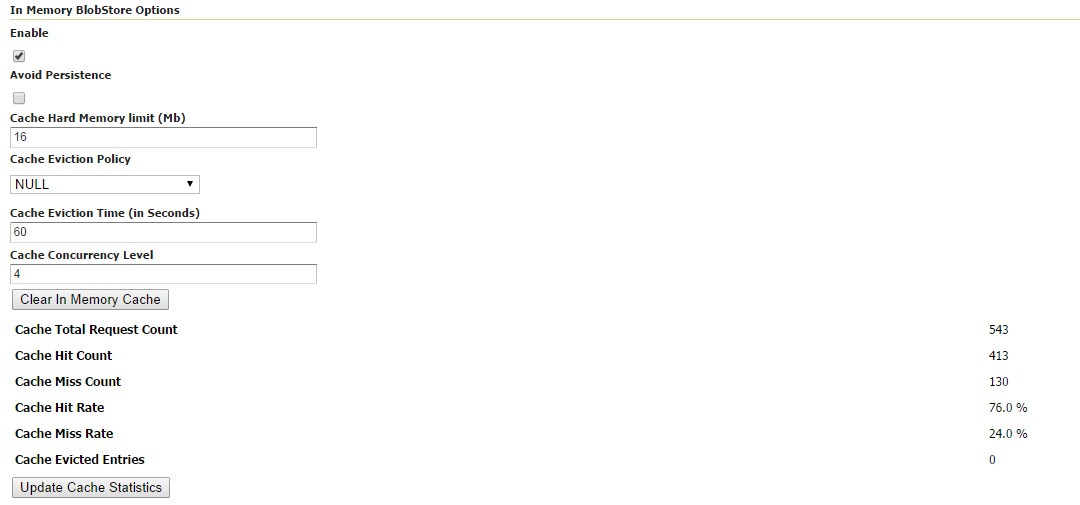
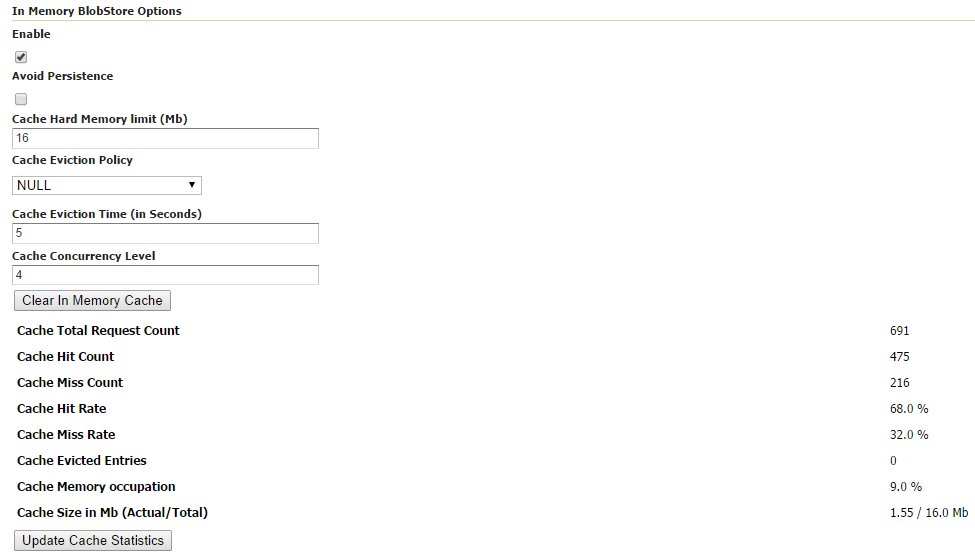
Added logging and minor fixes on eviction and cache size

diff --git a/src/web/gwc/src/main/java/org/geoserver/gwc/web/BlobStorePanel.html b/src/web/gwc/src/main/java/org/geoserver/gwc/web/BlobStorePanel.html
@@ -59,6 +59,14 @@
 				    	<th scope="row"><wicket:message key="evicted">evicted</wicket:message></th>
 				    	<td wicket:id="evicted">evicted</td>
 				    </tr>
+				    <tr>
+				    	<th scope="row"><wicket:message key="currentMemory">current memory</wicket:message></th>
+				    	<td wicket:id="currentMemory">current memory</td>
+				    </tr>
+				    <tr>
+				    	<th scope="row"><wicket:message key="cacheSize">CacheSize</wicket:message></th>
+				    	<td wicket:id="cacheSize">CacheSize</td>
+				    </tr>				    				    
 				  </tbody>
 				</table>
       		</li> 

diff --git a/src/web/gwc/src/main/java/org/geoserver/gwc/web/BlobStorePanel.java b/src/web/gwc/src/main/java/org/geoserver/gwc/web/BlobStorePanel.java
@@ -7,6 +7,7 @@ package org.geoserver.gwc.web;
 
 import java.util.Arrays;
 import java.util.HashMap;
+import java.util.List;
 
 import org.apache.wicket.ajax.AjaxRequestTarget;
 import org.apache.wicket.ajax.form.AjaxFormComponentUpdatingBehavior;
@@ -22,6 +23,7 @@ import org.apache.wicket.markup.html.panel.Panel;
 import org.apache.wicket.model.IModel;
 import org.apache.wicket.model.PropertyModel;
 import org.apache.wicket.validation.IValidatable;
+import org.apache.wicket.validation.IValidator;
 import org.apache.wicket.validation.ValidationError;
 import org.apache.wicket.validation.validator.AbstractValidator;
 import org.geoserver.gwc.ConfigurableBlobStore;
@@ -31,6 +33,7 @@ import org.geoserver.web.util.MapModel;
 import org.geoserver.web.wicket.ParamResourceModel;
 import org.geowebcache.storage.blobstore.memory.CacheConfiguration;
 import org.geowebcache.storage.blobstore.memory.CacheConfiguration.EvictionPolicy;
+import org.geowebcache.storage.blobstore.memory.CacheProvider;
 import org.geowebcache.storage.blobstore.memory.CacheStatistics;
 
 /**
@@ -58,6 +61,12 @@ public class BlobStorePanel extends Panel {
 
     /** Key for the total elements count */
     public static final String KEY_TOTAL_COUNT = "totalCount";
+
+    /** Key for the cache current memory occupation */
+    public static final String KEY_CURRENT_MEM = "currentMemory";
+    
+    /** Key for the cache current/total size */
+    public static final String KEY_SIZE = "cacheSize";
 
     /** HashMap containing the values for all the statistics values */
     private HashMap<String, String> values;
@@ -110,9 +119,32 @@ public class BlobStorePanel extends Panel {
         final TextField<Long> evictionTime = new TextField<Long>("evictionTime", evictionTimeValue);
         evictionTime.setType(Long.class).setOutputMarkupId(true).setEnabled(true);
 
-        final DropDownChoice<EvictionPolicy> policyDropDown = new DropDownChoice<>("policy",
-                policy, Arrays.asList(EvictionPolicy.values()));
+        final DropDownChoice<EvictionPolicy> policyDropDown = new DropDownChoice<EvictionPolicy>(
+                "policy", policy, Arrays.asList(EvictionPolicy.values()));
         policyDropDown.setOutputMarkupId(true).setEnabled(true);
+        policyDropDown.add(new IValidator<EvictionPolicy>() {
+            
+            @Override
+            public void validate(IValidatable<EvictionPolicy> validatable) {
+                EvictionPolicy value = validatable.getValue();
+                if(value != EvictionPolicy.NULL){
+                    // Ensure that the defined Eviction policy can be accepted by the cache used
+                    ConfigurableBlobStore store = GeoServerExtensions.bean(ConfigurableBlobStore.class);
+                    if(store != null){
+                        CacheProvider cache = store.getCache();
+                        if (cache != null) {
+                            List<EvictionPolicy> policies = cache.getSupportedPolicies();
+                            if(!policies.contains(value)){
+                                ValidationError error = new ValidationError();
+                                error.setMessage(new ParamResourceModel("BlobStorePanel.invalidPolicy", null,
+                                        "").getObject());
+                                validatable.error(error);
+                            }
+                        }
+                    }
+                }
+            }
+        });
 
         final TextField<Integer> textConcurrency = new TextField<Integer>("concurrencyLevel",
                 concurrencyLevel);
@@ -166,6 +198,8 @@ public class BlobStorePanel extends Panel {
         statsContainer.add(new Label("missRate", new MapModel(values, KEY_MISS_RATE)));
         statsContainer.add(new Label("hitRate", new MapModel(values, KEY_HIT_RATE)));
         statsContainer.add(new Label("evicted", new MapModel(values, KEY_EVICTED)));
+        statsContainer.add(new Label("currentMemory", new MapModel(values, KEY_CURRENT_MEM)));
+        statsContainer.add(new Label("cacheSize", new MapModel(values, KEY_SIZE)));
 
         AjaxButton statistics = new AjaxButton("statistics") {
 
@@ -184,6 +218,10 @@ public class BlobStorePanel extends Panel {
                         double hitRate = stats.getHitRate();
                         double missRate = stats.getMissRate();
                         long evicted = stats.getEvictionCount();
+                        double currentMem = stats.getCurrentMemoryOccupation();
+                        long byteToMb = 1024 * 1024;
+                        double actualSize = ((long) (100 * (stats.getActualSize() * 1.0d) / byteToMb)) / 100d;
+                        double totalSize = ((long) (100 * (stats.getTotalSize() * 1.0d) / byteToMb)) / 100d;
 
                         values.put(KEY_MISS_RATE, missRate + " %");
                         values.put(KEY_HIT_RATE, hitRate + " %");
@@ -191,6 +229,8 @@ public class BlobStorePanel extends Panel {
                         values.put(KEY_TOTAL_COUNT, total + "");
                         values.put(KEY_MISS_COUNT, missCount + "");
                         values.put(KEY_HIT_COUNT, hitCount + "");
+                        values.put(KEY_CURRENT_MEM, currentMem + " %");
+                        values.put(KEY_SIZE, actualSize + " / " + totalSize + " Mb");
                     }
                 } catch (Throwable t) {
                     error(t);

diff --git a/src/gwc/src/main/java/org/geoserver/gwc/ConfigurableBlobStore.java b/src/gwc/src/main/java/org/geoserver/gwc/ConfigurableBlobStore.java
@@ -7,9 +7,12 @@ package org.geoserver.gwc;
 
 import java.util.concurrent.atomic.AtomicBoolean;
 import java.util.concurrent.atomic.AtomicLong;
+import java.util.logging.Level;
+import java.util.logging.Logger;
 
 import org.geoserver.gwc.config.GWCConfig;
 import org.geoserver.gwc.layer.GeoServerTileLayer;
+import org.geotools.util.logging.Logging;
 import org.geowebcache.storage.BlobStore;
 import org.geowebcache.storage.BlobStoreListener;
 import org.geowebcache.storage.StorageException;
@@ -29,6 +32,9 @@ import org.geowebcache.storage.blobstore.file.FileBlobStore;
  * @author Nicola Lagomarsini Geosolutions
  */
 public class ConfigurableBlobStore extends MemoryBlobStore implements BlobStore {
+    
+    /**Logger instance for the class*/
+    private final static Logger LOGGER = Logging.getLogger(ConfigurableBlobStore.class);
 
     /** Delegate Object to use for executing the operations */
     private BlobStore delegate;
@@ -388,6 +394,9 @@ public class ConfigurableBlobStore extends MemoryBlobStore implements BlobStore 
     }
 
     private void configureBlobStore(GWCConfig gwcConfig) {
+        if(LOGGER.isLoggable(Level.FINEST)){
+            LOGGER.finest("Configuring BlobStore");
+        }
         // reset the configuration
         configured.getAndSet(false);
 
@@ -400,6 +409,9 @@ public class ConfigurableBlobStore extends MemoryBlobStore implements BlobStore 
 
         CacheConfiguration cacheConfiguration = gwcConfig.getCacheConfiguration();
         // Add the internal Cache configuration for the first time
+        if(LOGGER.isLoggable(Level.FINEST)){
+            LOGGER.finest("Configuring cache");
+        }
         if (internalCacheConfig == null) {
             internalCacheConfig = new CacheConfiguration();
             internalCacheConfig.setConcurrencyLevel(cacheConfiguration.getConcurrencyLevel());
@@ -426,6 +438,9 @@ public class ConfigurableBlobStore extends MemoryBlobStore implements BlobStore 
             }
         }
 
+        if(LOGGER.isLoggable(Level.FINEST)){
+            LOGGER.finest("Configuring BlobStore delegate");
+        }
         // BlobStore configuration
         if (gwcConfig.isInnerCachingEnabled()) {
             memoryStore.setCacheProvider(cache);

diff --git a/src/gwc/src/main/java/org/geoserver/gwc/config/GWCInitializer.java b/src/gwc/src/main/java/org/geoserver/gwc/config/GWCInitializer.java
@@ -113,8 +113,15 @@ public class GWCInitializer implements GeoServerInitializer {
 
         // Setting default Cache Configuration
         if (gwcConfig.getCacheConfiguration() == null) {
+            if(LOGGER.isLoggable(Level.FINEST)){
+                LOGGER.finest("Setting default CacheConfiguration");
+            }
             gwcConfig.setCacheConfiguration(new CacheConfiguration());
             configPersister.save(gwcConfig);
+        } else {
+            if(LOGGER.isLoggable(Level.FINEST)){
+                LOGGER.finest("CacheConfiguration loaded");
+            }
         }
 
         // Change ConfigurableBlobStore behavior
@@ -122,7 +129,7 @@ public class GWCInitializer implements GeoServerInitializer {
             blobStore.setChanged(gwcConfig);
             CacheProvider cache = blobStore.getCache();
             // Add all the various Layers to avoid caching
-            addLayersToUncache(cache, gwcConfig);
+            addLayersToNotCache(cache, gwcConfig);
         }
     }
 
@@ -246,7 +253,10 @@ public class GWCInitializer implements GeoServerInitializer {
      * @param cache
      * @param defaultSettings
      */
-    private void addLayersToUncache(CacheProvider cache, GWCConfig defaultSettings) {
+    private void addLayersToNotCache(CacheProvider cache, GWCConfig defaultSettings) {
+        if(LOGGER.isLoggable(Level.FINEST)){
+            LOGGER.finest("Adding Layers to avoid In Memory Caching");
+        }
         // Cycle on the Layers
         for (LayerInfo layer : rawCatalog.getLayers()) {
             if (!CatalogConfiguration.isLayerExposable(layer)) {

diff --git a/doc/en/user/source/webadmin/tilecache/defaults.rst b/doc/en/user/source/webadmin/tilecache/defaults.rst
@@ -145,7 +145,9 @@ Paramter for configuring in memory cache eviction policy, it may be: LRU, LFU, E
 
 Cache Eviction Time (in Seconds)
 ```````````````````````````````````````
-Paramter for configuring in memory cache eviction time. It is in Seconds.
+Paramter for configuring in memory cache eviction time. It is in Seconds. 
+
+.. note:: Note that this parameter is also used for configuring an internal thread which performs a periodical cache cleanup.
 
 Cache Concurrency Level
 ```````````````````````````````````````
